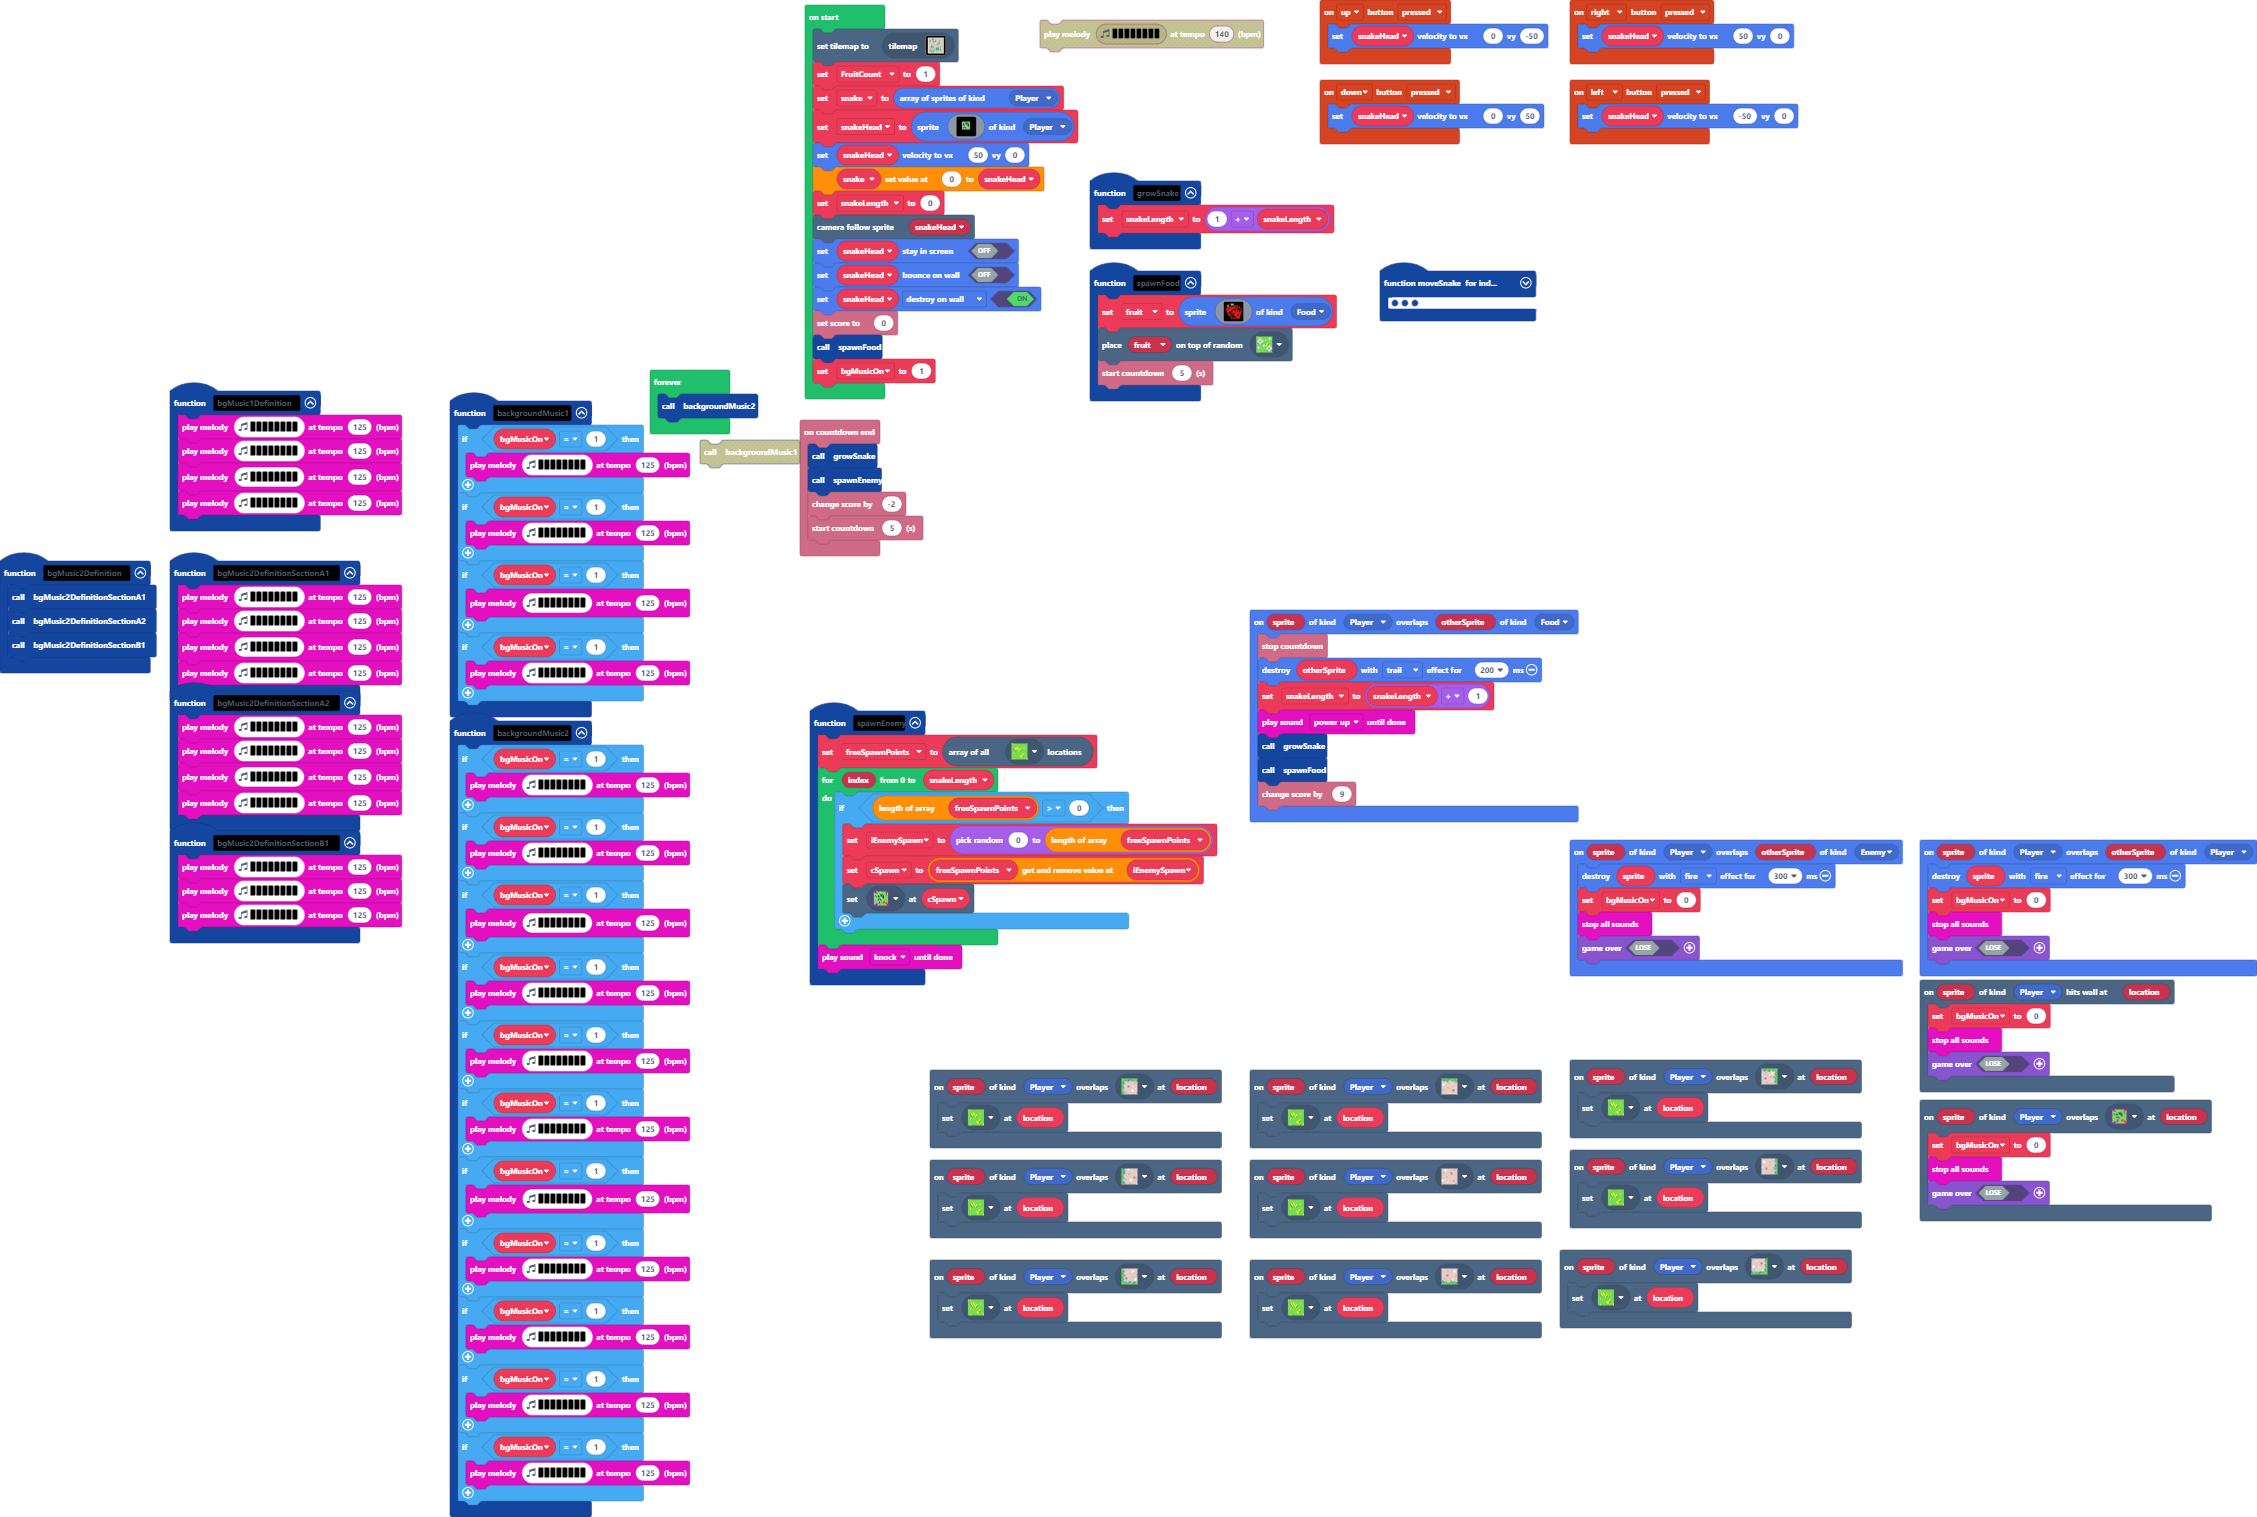
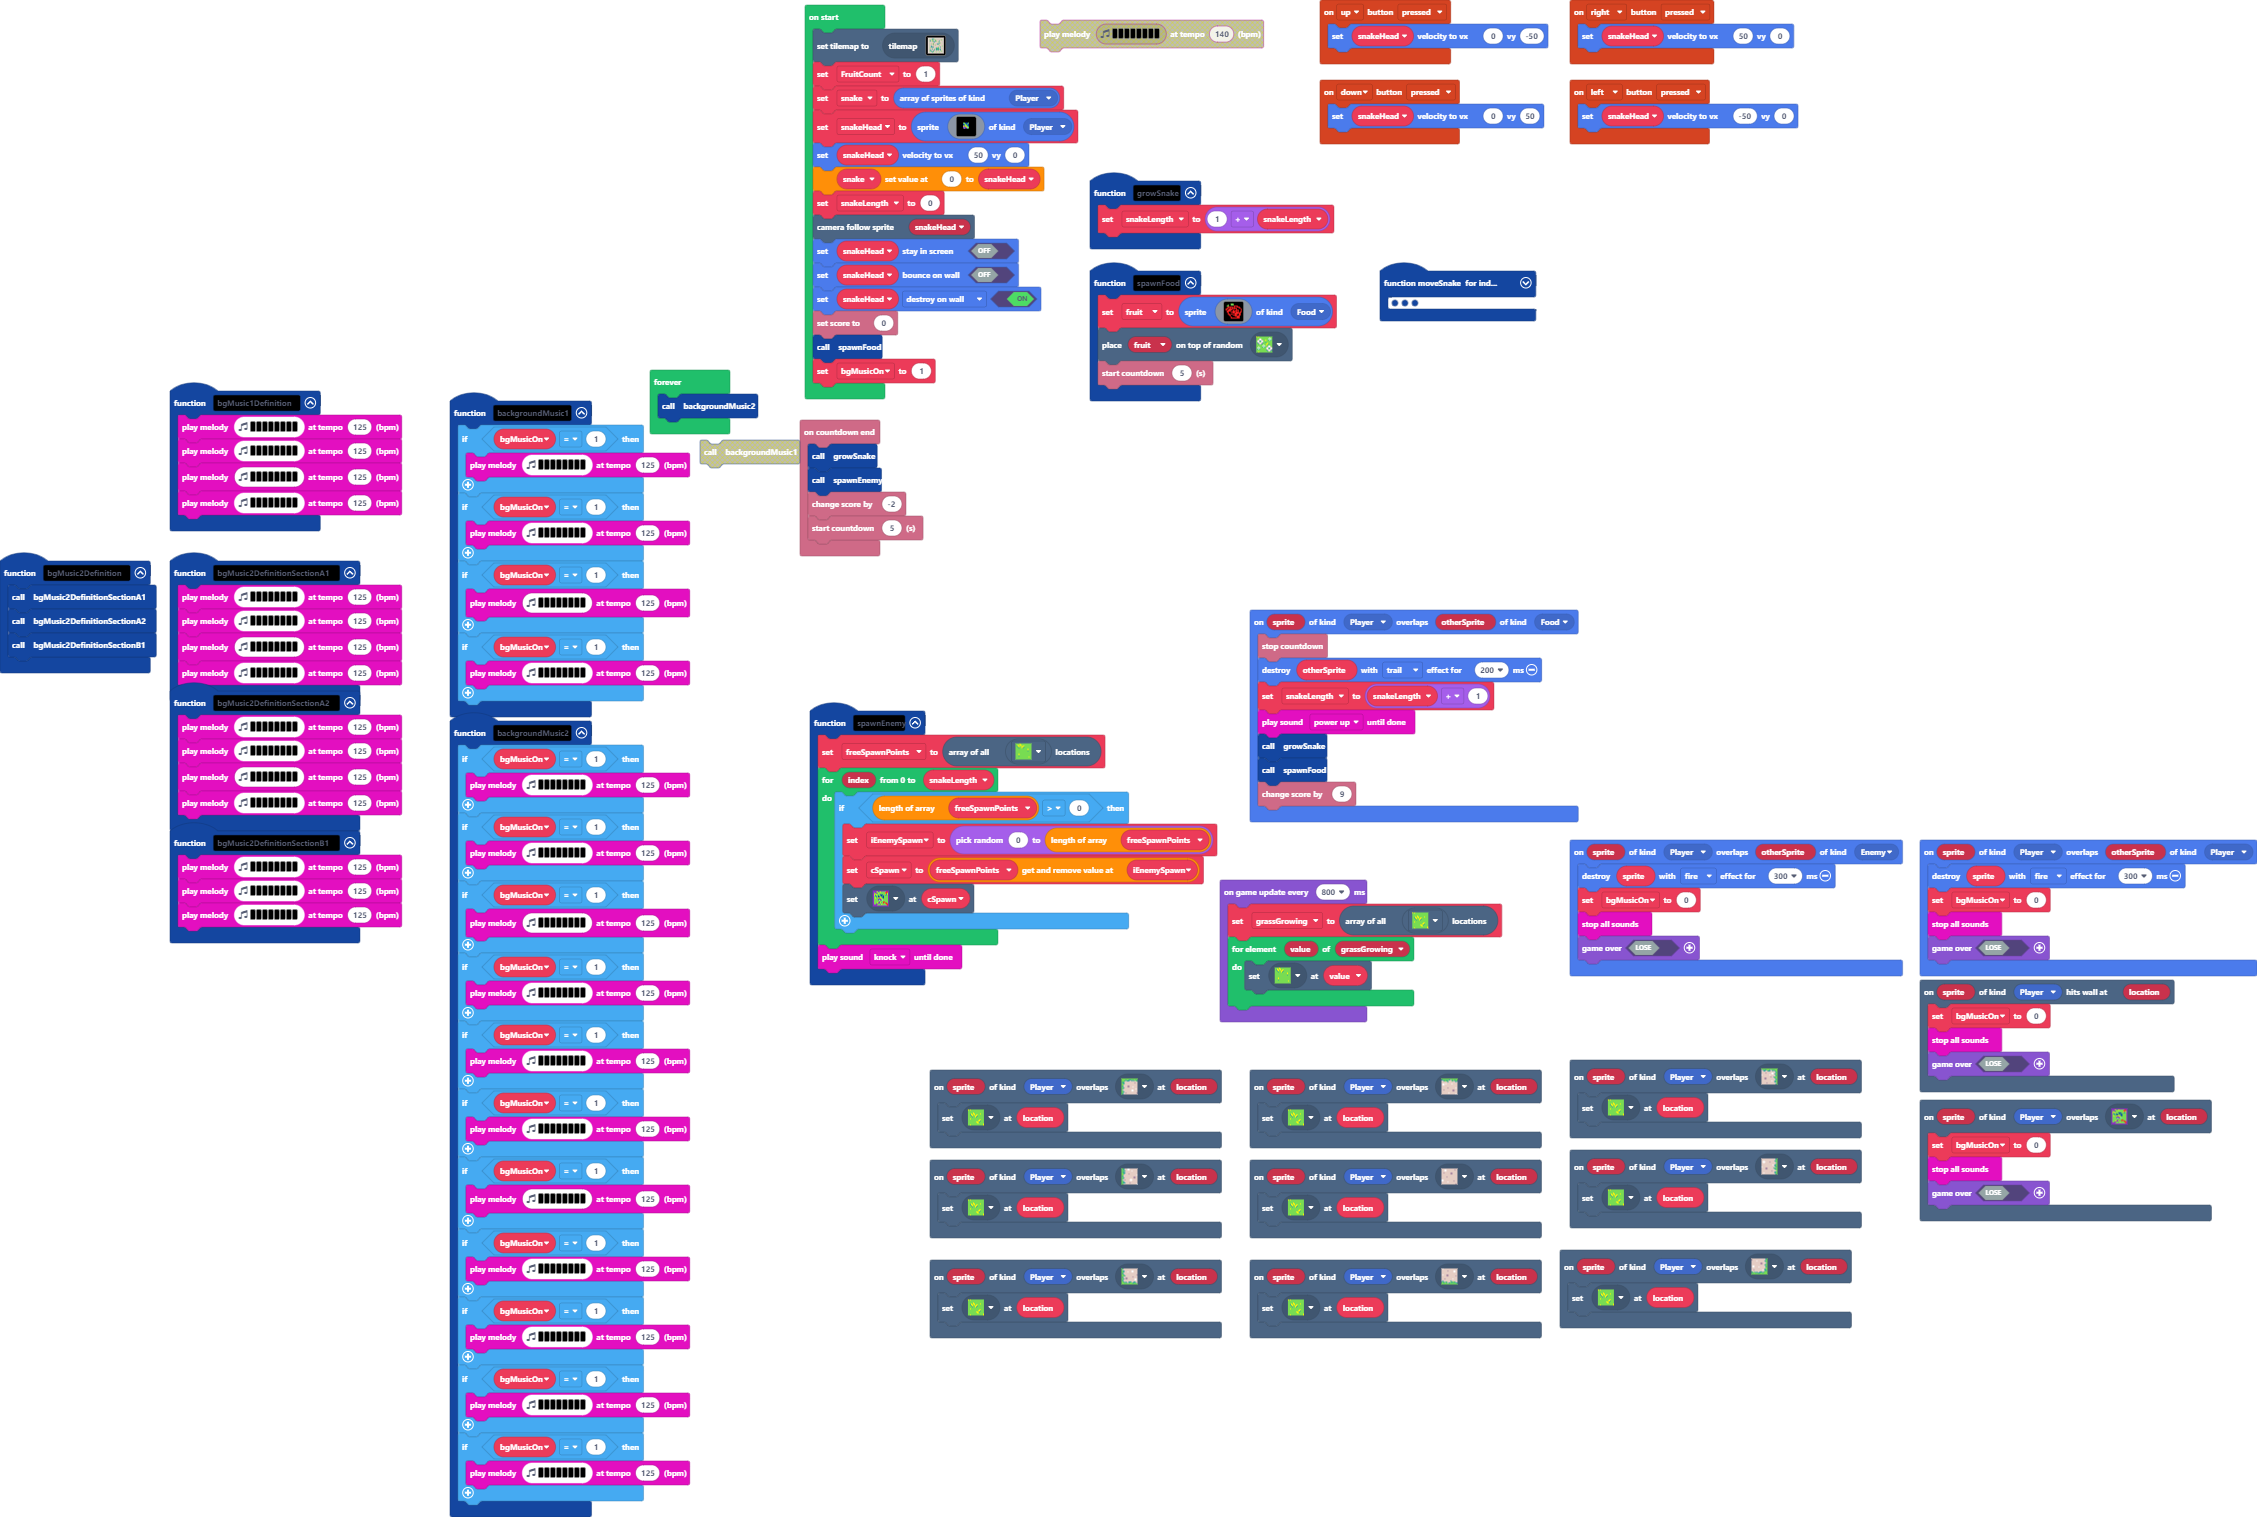
adjust player sprite border size, add grass growth reduce spawnontop

Changed region(s): [[0.5272, 0.5577, 0.6823, 0.6816], [0.4652, 0.4957, 0.4962, 0.5267]]

diff --git a/tilemap.g.ts b/tilemap.g.ts
@@ -65,7 +65,7 @@ namespace myTiles {
 . . . . . . . . . . . . . . . . 
 `, [myTiles.transparency16], TileScale.Sixteen);
             case "level1":
[2 lines of base64/hex data omitted]
 2 2 2 2 2 2 2 2 2 2 2 2 2 2 2 2 
 2 . . . . . . . . . . . . . . 2 
 2 . . . . . . . . . . . . . . 2 
@@ -82,7 +82,7 @@ namespace myTiles {
 2 . . . . . . . . . . . . . . 2 
 2 . . . . . . . . . . . . . . 2 
 2 2 2 2 2 2 2 2 2 2 2 2 2 2 2 2 
-`, [myTiles.transparency16,sprites.castle.tileGrass2,sprites.builtin.brick,sprites.castle.tilePath1,sprites.castle.tilePath4,sprites.castle.tilePath8,sprites.castle.tilePath6,sprites.castle.tilePath3,sprites.castle.tilePath2,sprites.castle.tilePath5,sprites.castle.tileDarkGrass1,sprites.castle.tileDarkGrass3,sprites.castle.tilePath7,sprites.castle.tilePath9,sprites.castle.tileGrass1,sprites.castle.tileGrass3], TileScale.Sixteen);
+`, [myTiles.transparency16,sprites.castle.tileGrass2,sprites.builtin.brick,sprites.castle.tilePath1,sprites.castle.tilePath4,sprites.castle.tilePath8,sprites.castle.tilePath6,sprites.castle.tilePath3,sprites.castle.tilePath2,sprites.castle.tilePath5,sprites.castle.tileDarkGrass1,sprites.castle.tileDarkGrass3,sprites.castle.tilePath7,sprites.castle.tilePath9,sprites.castle.tileGrass1,sprites.castle.tileGrass3,myTiles.tile2], TileScale.Sixteen);
         }
         return null;
     })

diff --git a/images.g.ts b/images.g.ts
@@ -3,25 +3,6 @@ namespace myImages {
 
     helpers._registerFactory("image", function(name: string) {
         switch(helpers.stringTrim(name)) {
-            case "image1":
-            case "SnakeHead":return img`
-. . . . . . . . . . . . . . . . 
-. . . . . . . . . . . . . . . . 
-. . . . . . . . . . . . . . . . 
-. . . . 7 7 7 7 7 7 7 7 . . . . 
-. . . . 7 7 7 8 8 8 7 7 . . . . 
-. . . . 7 8 7 7 8 7 8 7 . . . . 
-. . . . 7 8 8 7 7 8 8 7 . . . . 
-. . . . 7 5 5 5 7 7 8 7 . . . . 
-. . . . 7 a 8 a 5 7 7 7 . . . . 
-. . . . 7 a 9 a a 9 7 7 . . . . 
-. . . . 7 7 7 7 7 7 7 7 . . . . 
-. . . . . . . . . . . . . . . . 
-. . . . . . . . . . . . . . . . 
-. . . . . . . . . . . . . . . . 
-. . . . . . . . . . . . . . . . 
-. . . . . . . . . . . . . . . . 
-`;
             case "image2":
             case "NoPlayerSquare":return img`
 a a a a a a a a a a a a a a a a 
@@ -58,6 +39,25 @@ a a a a a a a a a a a a a a a a
 . . . . 2 . . . . 2 2 2 2 2 . . 
 . . . . . 2 . . . . . 2 2 2 . . 
 . . . . . 2 2 2 2 2 2 2 2 2 . . 
+. . . . . . . . . . . . . . . . 
+`;
+            case "image1":
+            case "SnakeHead":return img`
+. . . . . . . . . . . . . . . . 
+. . . . . . . . . . . . . . . . 
+. . . . . . . . . . . . . . . . 
+. . . . . . . . . . . . . . . . 
+. . . . . 7 7 8 8 8 7 . . . . . 
+. . . . . 8 7 7 8 7 8 . . . . . 
+. . . . . 8 8 7 7 8 8 . . . . . 
+. . . . . 5 5 5 7 7 8 . . . . . 
+. . . . . a 8 a 5 7 7 . . . . . 
+. . . . . a 9 a a 9 7 . . . . . 
+. . . . . . . . . . . . . . . . 
+. . . . . . . . . . . . . . . . 
+. . . . . . . . . . . . . . . . 
+. . . . . . . . . . . . . . . . 
+. . . . . . . . . . . . . . . . 
 . . . . . . . . . . . . . . . . 
 `;
         }

diff --git a/main.ts b/main.ts
@@ -178,7 +178,7 @@ scene.onOverlapTile(SpriteKind.Player, sprites.castle.tilePath7, function (sprit
     tiles.setTileAt(location, sprites.castle.tileGrass3)
 })
 function spawnEnemy () {
-    freeSpawnPoints = tiles.getTilesByType(sprites.castle.tileGrass3)
+    freeSpawnPoints = tiles.getTilesByType(sprites.castle.tileGrass1)
     for (let index = 0; index <= snakeLength; index++) {
         if (freeSpawnPoints.length > 0) {
             iEnemySpawn = randint(0, freeSpawnPoints.length)
@@ -197,6 +197,7 @@ sprites.onOverlap(SpriteKind.Player, SpriteKind.Enemy, function (sprite, otherSp
     music.stopAllSounds()
     game.over(false)
 })
+let grassGrowing: tiles.Location[] = []
 let cSpawn: tiles.Location = null
 let iEnemySpawn = 0
 let freeSpawnPoints: tiles.Location[] = []
@@ -219,6 +220,12 @@ snakeHead.setFlag(SpriteFlag.DestroyOnWall, true)
 info.setScore(0)
 spawnFood()
 bgMusicOn = 1
+game.onUpdateInterval(800, function () {
+    grassGrowing = tiles.getTilesByType(sprites.castle.tileGrass3)
+    for (let value of grassGrowing) {
+        tiles.setTileAt(value, sprites.castle.tileGrass1)
+    }
+})
 forever(function () {
     backgroundMusic2()
 })
